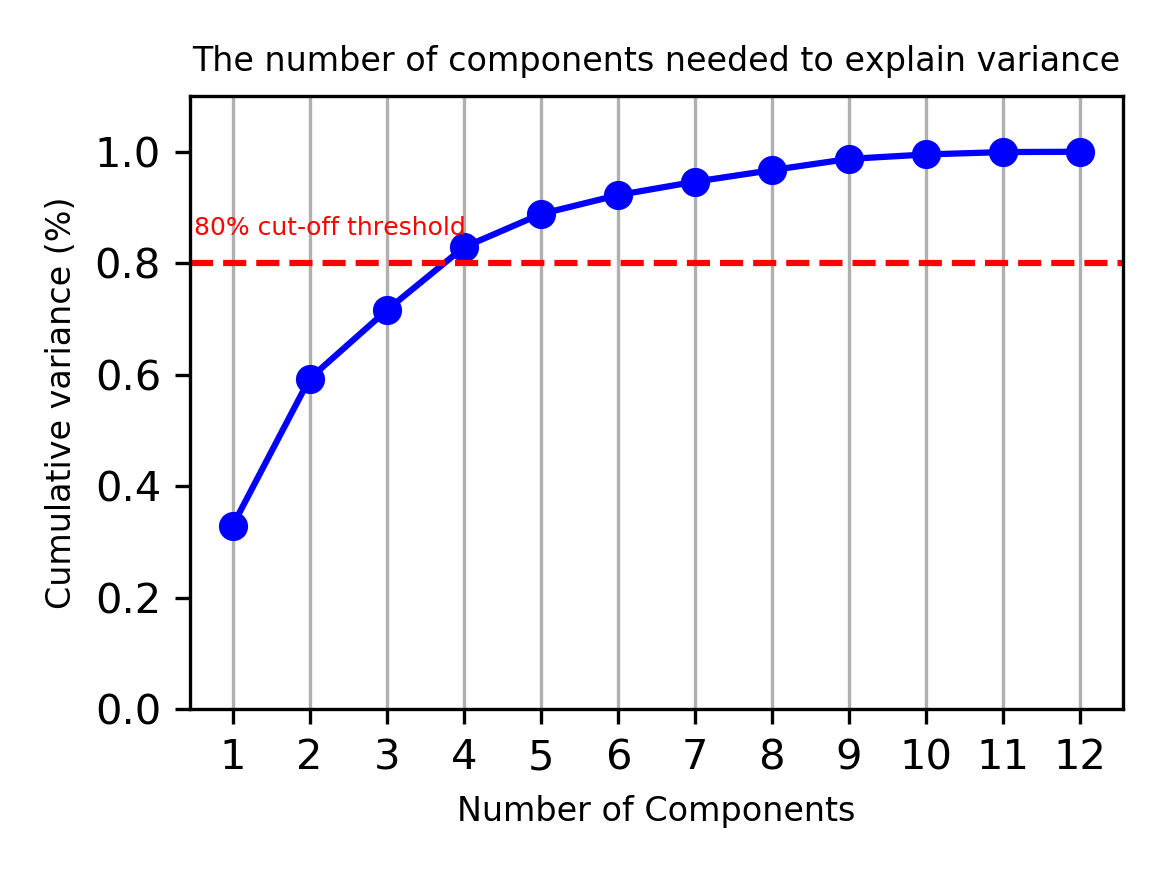
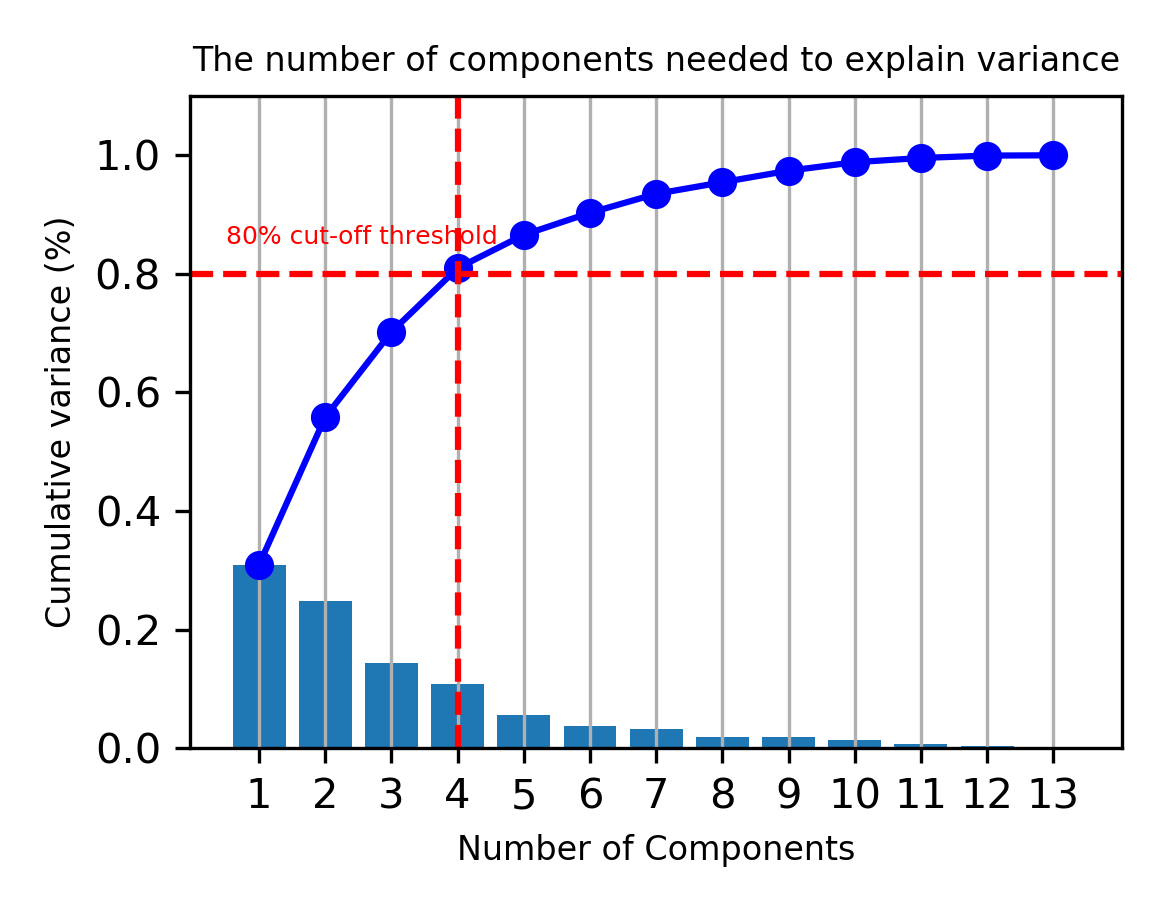
updates

diff --git a/plot.py b/plot.py
@@ -12,71 +12,12 @@ import plotly.figure_factory as ff
 import plotly.graph_objects as go
 import seaborn as sns
 from scipy.cluster.hierarchy import dendrogram
-from sklearn.cluster import AgglomerativeClustering
 import clustering
 from sklearn.decomposition import PCA
+from sklearn.cluster import KMeans, AgglomerativeClustering
+import matplotlib.patheffects as pe
 
-def gantt(data, graph_name='gant_plot', monthly=True):
-    """
-    Make the Gantt plot. This graphic shows the temporal data availability for each station.
-    :param data:A Pandas daily DataFrame with DatetimeIndex where each column corresponds to a station.
-    :param graph_name: str, optional, default: True
-    Defines the name of the exported graph
-    :param monthly: boolean, optional, default: True
-    Defines if the availability count of the data will be monthly to obtain a more fluid graph.
-    """
-    stations_with_data = []
-    periods = []
-    date_index = pd.date_range(data.index[0], data.index[-1], freq='D')
-    data = data.reindex(date_index)
-    for column in data.columns:
-        series = data[column]
-        if monthly:
-            missing = series.isnull().groupby(pd.Grouper(freq='1MS')).sum().to_frame()
-            series_drop = missing.loc[missing[column] < 7]  # A MONTH WITHOUT 7 DATA IS CONSIDERED A MISSING MONTH
-            DELTA = 'M'
-        else:
-            series_drop = series.dropna()
-            DELTA = 'D'
-        if series_drop.shape[0] > 1:
-            stations_with_data.append(column)
-            task = column
-            resource = 'Available data'
-            start = str(series_drop.index[0].year) + '-' + str(series_drop.index[0].month) + '-' + str(
-                series_drop.index[0].day)
-            finish = 0
-            for i in range(len(series_drop)):
-                if i != 0 and round((series_drop.index[i]-series_drop.index[i - 1])/np.timedelta64(1, DELTA), 0) != 1:
-                    finish = str(series_drop.index[i - 1].year) + '-' + str(series_drop.index[i - 1].month) + '-' + str(
-                        series_drop.index[i - 1].day)
-                    periods.append(dict(Task=task, Start=start, Finish=finish, Resource=resource))
-                    start = str(series_drop.index[i].year) + '-' + str(series_drop.index[i].month) + '-' + str(
-                        series_drop.index[i].day)
-                    finish = 0
-            finish = str(series_drop.index[-1].year) + '-' + str(series_drop.index[-1].month) + '-' + str(
-                series_drop.index[-1].day)
-            periods.append(dict(Task=task, Start=start, Finish=finish, Resource=resource))
-        else:
-            print('Station {} has no months with significant data'.format(column))
-    periods = pd.DataFrame(periods)
-    start_year = periods['Start'].apply(lambda x:int(x[:4])).min()
-    finish_year = periods['Start'].apply(lambda x:int(x[:4])).max()
-    colors = {'Available data': 'rgb(0,191,255)'}
-    fig = ff.create_gantt(periods, colors=colors, index_col='Resource', show_colorbar=True, showgrid_x=True,
-                          showgrid_y=True, height=(200+len(stations_with_data)*30),width=1800, group_tasks=True)
-    
-    fig.layout.xaxis.tickvals = pd.date_range('1/1/'+str(start_year),'12/31/'+str(finish_year+1), freq='2AS')
-    fig.layout.xaxis.ticktext = pd.date_range('1/1/'+str(start_year),'12/31/'+str(finish_year+1), freq='2AS').year
-    fig.layout.xaxis.title = 'Year'
-    fig.layout.yaxis.title = 'Station Code'
-    fig = go.FigureWidget(fig)
-    fig.update_layout(font=dict(family="Courier New, monospace",size=15))
-    plot(fig,filename=graph_name + '.html')
-    stations_with_data = {'Station Code': stations_with_data}
-    stations_with_data = pd.DataFrame(data=stations_with_data)
-    return stations_with_data
-
-def pca_components(data_rescaled):
+def pca_ncomponents(data_rescaled):
     pca = PCA().fit(data_rescaled)
     plt.rcParams["figure.figsize"] = (10,8)
     plt.rcParams["figure.dpi"] = 300
@@ -85,6 +26,7 @@ def pca_components(data_rescaled):
     y = np.cumsum(pca.explained_variance_ratio_)   
     plt.ylim(0.0,1.1)
     plt.plot(xi, y, marker='o', linestyle='-', color='b')
+    plt.bar(xi, pca.explained_variance_ratio_)
     
     plt.xlabel('Number of Components',fontsize=8)
     plt.xticks(np.arange(1, len(data_rescaled.columns)+1, step=1)) #change from 0-based array index to 1-based human-readable label
@@ -92,6 +34,7 @@ def pca_components(data_rescaled):
     plt.title('The number of components needed to explain variance', fontsize=8)
     
     plt.axhline(y=0.8, color='r', linestyle='--')
+    plt.axvline(x=4, color='r', linestyle='--')
     plt.text(0.5, 0.85, '80% cut-off threshold', color = 'red', fontsize=6)
     ax.grid(axis='x')
     plt.show()
@@ -146,23 +89,84 @@ def correlation_matrix(data):
     ax.set_yticklabels(ax.get_yticklabels(),rotation=45, fontsize=10)
     return
 
-def cluster_evaluation(data):
-    clusters=clustering.kmeans_ward_evaluation(data)
-    db = clusters[['DB - K means','DB - Ward']].rename(columns={'DB - K means':'K means','DB - Ward':'Ward'})
-    si = clusters[['SC(i) - K means','SC(i) - Ward']].rename(columns={'SC(i) - K means':'K means','SC(i) - Ward':'Ward'})
+#def cluster_evaluation(data):
+#    clusters=clustering.kmeans_ward_evaluation(data)
+#    db = clusters[['DB - K means','DB - Ward']].rename(columns={'DB - K means':'K means','DB - Ward':'Ward'})
+#    si = clusters[['SC(i) - K means','SC(i) - Ward']].rename(columns={'SC(i) - K means':'K means','SC(i) - Ward':'Ward'})
+#    
+#    fig, (ax1, ax2) = plt.subplots(2, 1,sharex=True)
+#    fig.subplots_adjust(hspace=0.7)
+#    ax1.plot(db)
+#    ax1.title.set_text('Davies Boldin Index')
+#
+#    ax1.set_xlabel('Number of Clusters')
+#
+#    ax2.plot(si)
+#    ax2.title.set_text('Silhouette Coefficient')
+#
+#    ax2.set_xlabel('Number of Clusters')
+#    plt.xticks(list(range(2,21)))
+#    plt.show()    
+
+def pca_components(scaled_parameters,n_components=4, method='Kmeans', k=3):  
+    pca = PCA()
+    principalComponents = pca.fit_transform(scaled_parameters)
     
-    fig, (ax1, ax2) = plt.subplots(2, 1,sharex=True)
-    fig.subplots_adjust(hspace=0.7)
-    ax1.plot(db)
-    ax1.title.set_text('Davies Boldin Index')
+    most_important = [np.abs(pca.components_[i]).argmax() for i in range(scaled_parameters.shape[1])]
+    most_important_names = [scaled_parameters.columns.to_list()[most_important[i]] for i in range(scaled_parameters.shape[1])]
+    df = pd.DataFrame({'PC {}'.format(i+1): most_important_names[i] for i in range(scaled_parameters.shape[1])}.items(),columns=['PC','Feature'])
+    
+    score=principalComponents[:,0:2]
+    coeff=np.transpose(pca.components_[0:2, :])
+    labels=scaled_parameters.columns.to_list()
+    
+    xs = score[:,0]
+    ys = score[:,1]
+    scalex = 1.0/(xs.max() - xs.min())
+    scaley = 1.0/(ys.max() - ys.min())
+    
+    if method=='Kmeans':
+        kmeans = KMeans(n_clusters=k).fit(scaled_parameters)
+        y = kmeans.labels_
+        plt.title('PCA with points colored by Kmeans')
+    elif method=='Ward':
+        ward = AgglomerativeClustering(n_clusters=k).fit(scaled_parameters)
+        y = ward.labels_
+        plt.title('PCA with points colored by Ward')
+    
+    plt.scatter(xs * scalex,ys * scaley, c=y, zorder=5, edgecolor='white')
+    n = coeff.shape[0]
+    for i in range(n):
+        plt.arrow(0, 0, coeff[i,0], coeff[i,1],color = 'r', zorder=15)
+        plt.text(coeff[i,0]* 1.15, coeff[i,1] * 1.15, labels[i], color = 'g', ha = 'center', va = 'center',
+                 path_effects=[pe.withStroke(linewidth=1, foreground="white")],zorder=20)
+    plt.xlim(-1,1)
+    plt.ylim(-1,1)
+    plt.xlabel("PC {}".format(1))
+    plt.ylabel("PC {}".format(2))
+    plt.grid()
+    plt.show()
+    return df
+       
+def cluster_sc(data):
+    cluster=clustering.kmeans_ward_evaluation(data)
+    si = cluster[['SC(i) - K means','SC(i) - Ward']].rename(columns={'SC(i) - K means':'K means','SC(i) - Ward':'Ward'})
 
-    ax1.set_xlabel('Number of Clusters')
+    plt.rcParams["figure.figsize"] = (10,8)
+    plt.rcParams["figure.dpi"] = 300
 
-    ax2.plot(si)
-    ax2.title.set_text('Silhouette Coefficient')
-
-    ax2.set_xlabel('Number of Clusters')
-    plt.xticks(list(range(2,21)))
+    plt.plot(si['K means'], color='blue', marker='o', linestyle='-')
+    #plt.axvline(x=si['K means'].idxmax(), color='blue', linestyle='--')
+    
+    plt.plot(si['Ward'], color='orange', marker='o', linestyle='-')
+    plt.axvline(x=si['Ward'].idxmax(), color='black', linestyle='--')
+    
+    plt.xticks(np.arange(2, 11, step=1)) 
+    plt.xlabel('Number of Clusters')
+    plt.ylabel('Silhouette Coefficient')
+    plt.title('Optimal number of clusters: \nSilhouette Method')
+    plt.legend(('K-means','Ward'))
+#    plt.xticks(list(range(2,21)))
     plt.show()
 
 def dendogram(X, level=3):
@@ -194,4 +198,5 @@ def dendogram(X, level=3):
     # plot the top three levels of the dendrogram
     create_dendogram(model, truncate_mode='level', p=level)
     plt.xlabel("Number of points in node (or index of point if no parenthesis).")
+    plt.yticks([])
     plt.show()

diff --git a/historic_log.py b/historic_log.py
@@ -59,6 +59,12 @@ STEP 6 - PHYSIOGRAFIC DATA
 """
 physiographic_data = geoprocessing.physiographic_data(r'shapefiles\Watersheds.shp',r'shapefiles\LongestFlowPath.shp',r'raster/mdt_23s.tif')
 physiographic_data.to_pickle(r'data/physiographic_data.pkl') #Saving physiographic data
+"""
+STEP 7 - GENERATING ALL PARAMETERS
+"""
+signatures = pd.read_pickle(r'data/signatures.pkl')
+physiographic_data = pd.read_pickle(r'data/physiographic_data.pkl')
+all_parameters = pd.concat([physiographic_data,signatures],axis=1, sort=True)
 
 # Verifying the areas
 stations_area = hydrobr.get_data.ANA.list_flow_stations()
@@ -68,14 +74,7 @@ stations_area = pd.concat([stations_area[['DrainageArea']], physiographic_data[[
 stations_area['AreaError'] = 100*abs((stations_area['AreaKm2'] - stations_area['DrainageArea'])/stations_area['AreaKm2'])
 stations_area=stations_area[stations_area['AreaError']>25]
 
-"""
-STEP 7 - GENERATING ALL PARAMETERS
-"""
-signatures = pd.read_pickle(r'data/signatures.pkl')
-physiographic_data = pd.read_pickle(r'data/physiographic_data.pkl')
-all_parameters = pd.concat([physiographic_data,signatures],axis=1, sort=True)
 all_parameters = all_parameters.loc[~all_parameters.index.isin(stations_area.index.to_list())]
-all_parameters.to_pickle(r'data/all_parameters.pkl') #Saving all parameters
 
 """
 STEP 8 - STANDARIZING ALL PARAMETERS
@@ -83,7 +82,7 @@ STEP 8 - STANDARIZING ALL PARAMETERS
 all_parameters['Q90'] = all_parameters['Q90']/all_parameters['AreaKm2']
 all_parameters['Q10'] = all_parameters['Q10']/all_parameters['AreaKm2']
 all_parameters['Qmean'] = all_parameters['Qmean']/all_parameters['AreaKm2']
-all_parameters = all_parameters.drop(['AreaKm2','PD'],axis=1)
+all_parameters = all_parameters.drop(['AreaKm2'],axis=1)
 
 #scaled_parameters = StandardScaler().fit_transform(all_parameters)
 #scaled_parameters = pd.DataFrame(scaled_parameters, index=all_parameters.index, columns=all_parameters.columns)
@@ -91,21 +90,41 @@ all_parameters = all_parameters.drop(['AreaKm2','PD'],axis=1)
 scaled_parameters = MinMaxScaler().fit_transform(all_parameters)
 scaled_parameters = pd.DataFrame(scaled_parameters, index=all_parameters.index, columns=all_parameters.columns)
 
+scaled_parameters=scaled_parameters.rename(columns={'Slp1085':'$S_{10-85}$','Elev_Mean':'$E_{mean}$','Elev_std':'$E_{std}$',
+                                              'Q90':'$Q_{90}$','Qmean':'$Q_{mean}$','Q10':'$Q_{10}$','RBF':'$RB_{Flash}$',
+                                              'SFDC':'$S_{FDC}$','IBF':'$I_{BF}$'}) #Renaming columns to plot
+
 '''
 STEP 9 - PCA ANALYSIS
 '''
-plot.pca_components(scaled_parameters)
+plot.pca_ncomponents(scaled_parameters)
 pca = PCA(n_components=4)
 principalComponents = pca.fit_transform(scaled_parameters)
-principalComponents = pd.DataFrame(data = principalComponents,
-                           columns = ['principal 1', 'principal 2','principal 3','principal 4'])
+
+
+principal_components = plot.pca_components(scaled_parameters)
+#principalComponents = pd.DataFrame(data = principalComponents,
+#                           columns = ['PC 1', 'PC 2','PC 3','PC 4'])
+
+#from pca import pca as pca_lib
+#model = pca_lib(n_components=0.8)
+#out = model.fit_transform(scaled_parameters)
+#print(out['topfeat'])
+#ax = model.biplot(n_feat=6,label=False, legend=False)
+#ax = model.scatter()
+#ax = model.biplot3d(n_feat=4, label=False, legend=False)
+
+#Call the function. Use only the 2 PCs.
+plot.pca_components(principalComponents[:,0:2],np.transpose(pca.components_[0:2, :]), labels=scaled_parameters.columns.to_list())
+
+
 
 
 """
 STEP 10 - CLUSTERING ASSESSMENT
 """
 cluster = clustering.kmeans_ward_evaluation(principalComponents)
-plot.cluster_evaluation(principalComponents)
-plot.dendogram(principalComponents)
+plot.cluster_sc(principalComponents)
+plot.dendogram(principalComponents, level=4)
 
 

diff --git a/clustering.py b/clustering.py
@@ -15,7 +15,7 @@ import geopandas as gpd
 def kmeans_ward_evaluation(dados):
     classes =[]
     db = []
-    for i in range(19):
+    for i in range(9):
         classes.append(i+2)
         kmeans = KMeans(n_clusters=i+2).fit(dados)
         labels = kmeans.labels_
@@ -26,7 +26,7 @@ def kmeans_ward_evaluation(dados):
     
     classes =[]
     si = []
-    for i in range(19):
+    for i in range(9):
         classes.append(i+2)
         kmeans = KMeans(n_clusters=i+2).fit(dados)
         labels = kmeans.labels_
@@ -37,7 +37,7 @@ def kmeans_ward_evaluation(dados):
     
     classes =[]
     db = []
-    for i in range(19):
+    for i in range(9):
         classes.append(i+2)
         ward = sklearn.cluster.AgglomerativeClustering(n_clusters=i+2).fit(dados)
         labels = ward.labels_
@@ -48,7 +48,7 @@ def kmeans_ward_evaluation(dados):
 
     classes =[]
     si = []
-    for i in range(19):
+    for i in range(9):
         classes.append(i+2)
         ward = sklearn.cluster.AgglomerativeClustering(n_clusters=i+2).fit(dados)
         labels = ward.labels_

diff --git a/flowsignatures.py b/flowsignatures.py
@@ -36,15 +36,15 @@ def baseflow_index(data):
     df = pd.DataFrame({'IBF':values}, index=data.columns)
     return df
 
-#def peak_distribution(data):
-#    values = []
-#    for column in data.columns:
-#        try:
-#            values.append((data[column].quantile(.9)-data[column].quantile(.5))/.4)
-#        except:
-#            values.append(np.nan)
-#    df = pd.DataFrame({'PD':values}, index=data.columns)
-#    return df
+def peak_distribution(data):
+    values = []
+    for column in data.columns:
+        try:
+            values.append((data[column].quantile(.9)-data[column].quantile(.5))/.4)
+        except:
+            values.append(np.nan)
+    df = pd.DataFrame({'PD':values}, index=data.columns)
+    return df
 
 def auto_correlation(data):
     values = []
